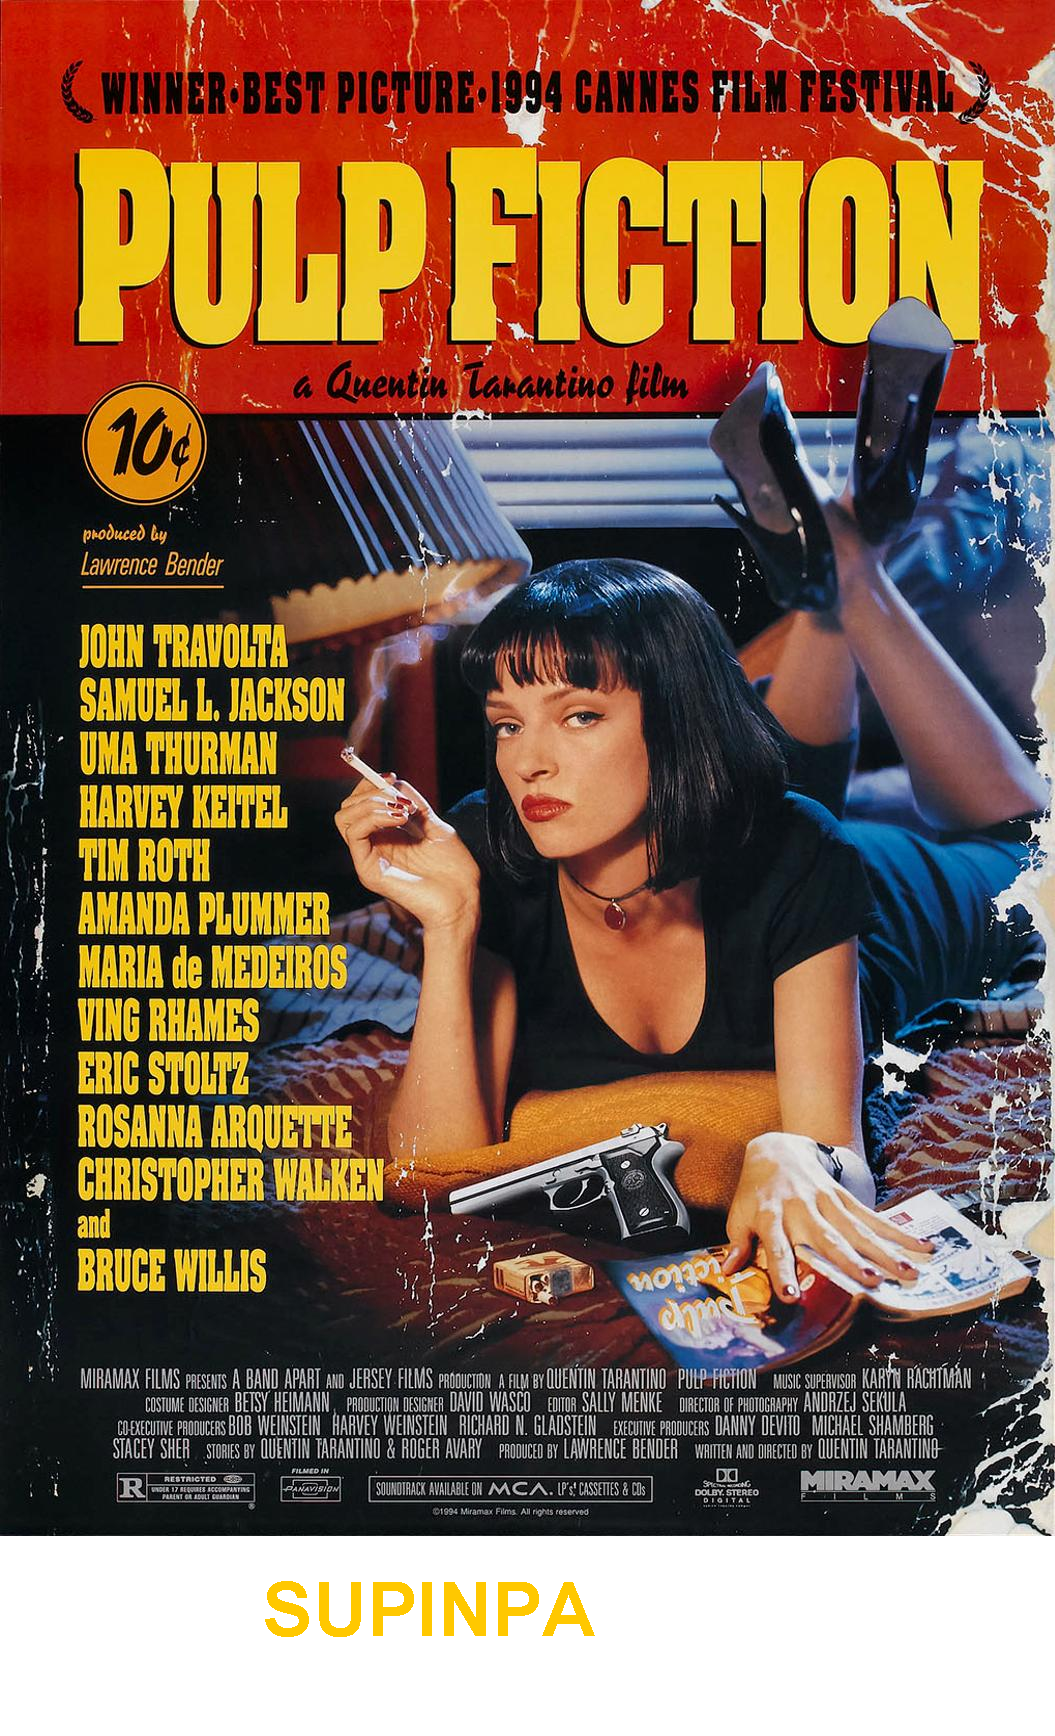
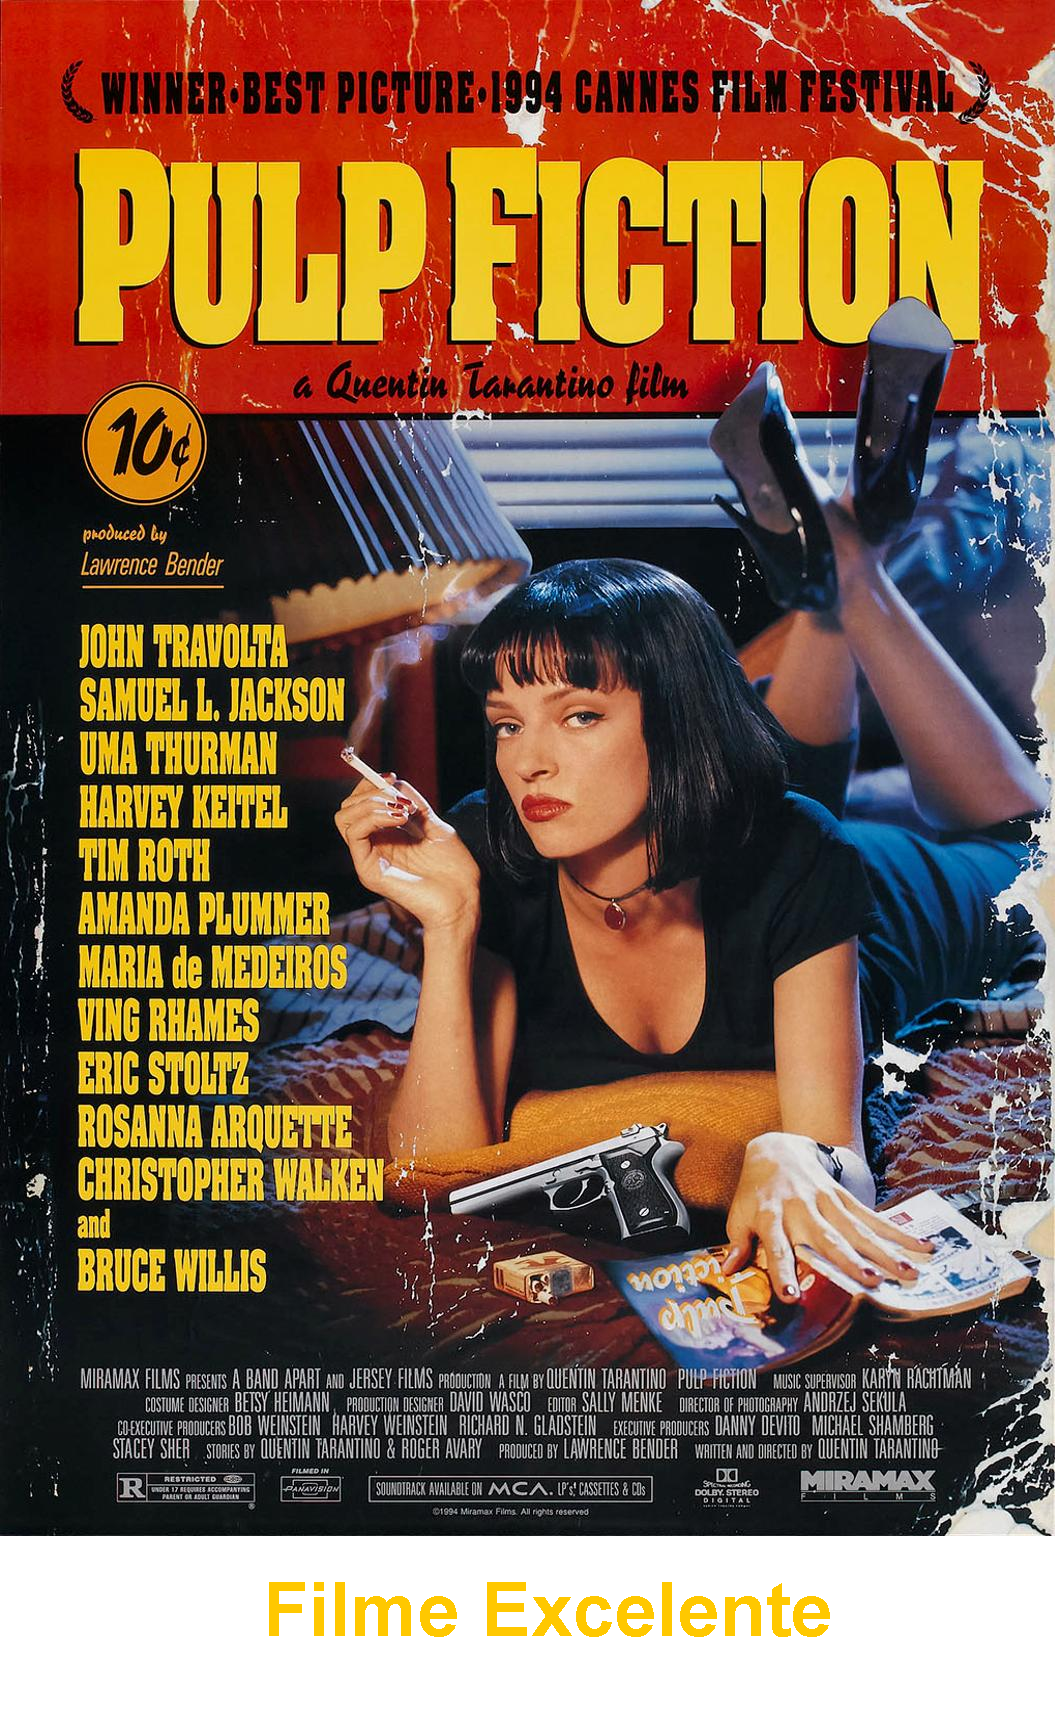
Feito script para comentario da figurinha alterar de acordo com a avaialização

Changed region(s): [[0.2427, 0.9021, 0.7886, 0.9643]]

diff --git a/Stickers/src/App.java b/Stickers/src/App.java
@@ -28,26 +28,34 @@ public class App {
 
             String titulo = filme.get("title");
             String urlImagem = filme.get("image");
+            double nota = Double.parseDouble(filme.get("imDbRating"));
+            double classificacao = (double) Math.round(nota / 2.0);
+
             System.out.println("Titulo: " + titulo);
+            System.out.print("Avaliação: " + filme.get("imDbRating") + " - ");
+
+            for (int i = 0; i < 5; i++) {
+                if(i < classificacao) {
+                    System.out.print("⭐");
+                } 
+            }
+            System.out.println("\n");
+
+            String comentario = "";
+            if (nota >= 9 || nota <= 10) {
+                comentario = "Filme Excelente";
+            } else if (nota >= 6 || nota <= 8 ) {
+                comentario = "Filme Mediano";
+            } else {
+                comentario = "Da pro gasto";
+            }
 
             InputStream inputStream = new URL(urlImagem).openStream();
             String nomeArquivo = titulo + ".png";
 
             var geradora = new GeradorFigurinhas();
-            geradora.cria(inputStream, nomeArquivo);
-
-            double nota = Double.parseDouble(filme.get("imDbRating"));
-            double classificacaoEmEstrelas = (double) Math.round(nota / 2.0);
-            System.out.print("Avaliação: " + filme.get("imDbRating") + " - ");
-
-            for (int i = 0; i < 5; i++) {
-                if(i < classificacaoEmEstrelas) {
-                    System.out.print("⭐");
-                } 
-            }
+            geradora.cria(inputStream, nomeArquivo, comentario);
             
-            System.out.println();
-            System.out.println();
         }
     }
 }

diff --git a/Stickers/src/GeradorFigurinhas.java b/Stickers/src/GeradorFigurinhas.java
@@ -5,12 +5,11 @@ import java.awt.image.BufferedImage;
 import java.io.File;
 import java.io.IOException;
 import java.io.InputStream;
-
 import javax.imageio.ImageIO;
 
 public class GeradorFigurinhas {
 
-    public void cria(InputStream InputStream, String nomeArquivo) throws IOException {
+    public void cria(InputStream InputStream, String nomeArquivo, String comentario) throws IOException {
 
         // leitura da imagem
         BufferedImage imagemOriginal = ImageIO.read(InputStream);
@@ -32,7 +31,7 @@ public class GeradorFigurinhas {
         graphics.setFont(fonte);
 
         // escrever uma frase na nova imagem
-        graphics.drawString("SUPINPA", (largura/2)/2, novaAltura-100);
+        graphics.drawString(comentario, (largura/2)/2, novaAltura-100);
 
         // escrever a nova imagem em um arquivo
         ImageIO.write(novaImagem, "png", new File("saida/" + nomeArquivo));
